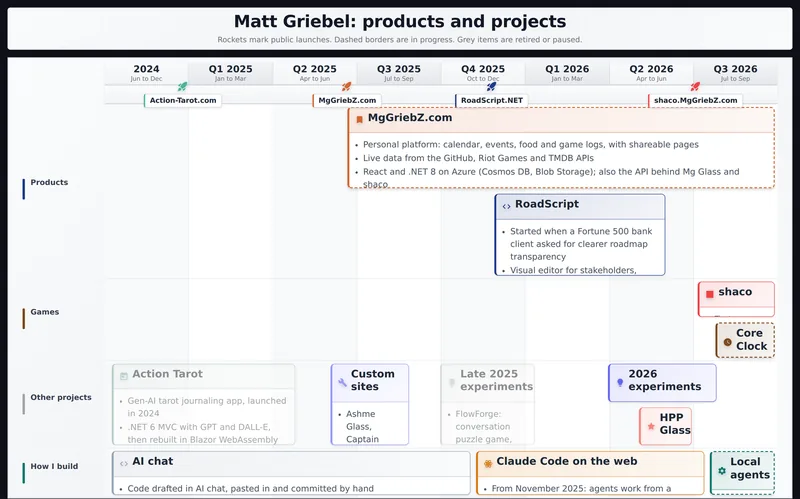
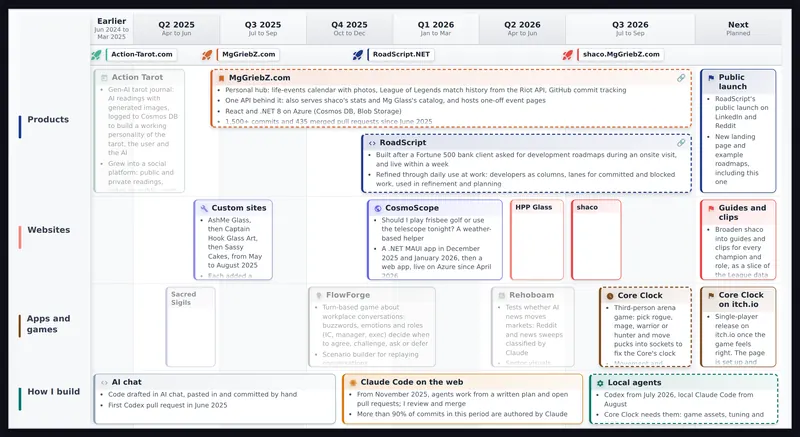
feat: landing page links to every example, with a new hero image
The Why I built this copy now matches the git history (live within a
week), and links to RoadScript's own build history.

Claude-Session: https://claude.ai/code/session_01L7PVBLGpHYW3oQpKGoECHo

diff --git a/wwwroot/index.html b/wwwroot/index.html
@@ -224,6 +224,10 @@
         .rs-shot { overflow-x: auto; overflow-y: hidden; border-radius: 12px; background: #0f0f17; box-shadow: 0 0 0 1px #2a2a3f; overscroll-behavior-x: contain; -webkit-overflow-scrolling: touch; }
         .rs-shot img { display: block; width: 900px; max-width: none; height: auto; }
         .rs-shot-hint { margin: 10px 0 0; font-size: 13px; color: #8d92ad; }
+        .rs-more { margin: 12px 0 0; display: flex; flex-wrap: wrap; align-items: center; gap: 4px 10px; font-size: 14px; color: #b4b8cf; }
+        .rs-more span { color: #4a4e68; }
+        .rs-more a, .rs-why-text a { color: #9aa1ff; }
+        .rs-more a:hover, .rs-why-text a:hover { color: #c3c7ff; }
 
         .rs-section { padding-top: 56px; display: flex; flex-direction: column; gap: 20px; }
         .rs-section-head { display: flex; flex-direction: column; gap: 8px; }
@@ -376,12 +380,17 @@
                         <img src="img/showcase-portfolio.webp"
                              srcset="img/showcase-portfolio-800.webp 800w, img/showcase-portfolio.webp 1600w"
                              sizes="(max-width: 899px) 900px, 1200px"
-                             width="1600" height="998"
+                             width="1600" height="874"
                              decoding="async"
-                             alt="The example roadmap: Matt Griebel's products and projects from 2024 to 2026, in swim lanes for products, games, other projects and how I build, with launch milestones." />
+                             alt="The example roadmap: Matt Griebel's products and projects from 2024 to 2026, in swim lanes for products, websites, apps and games, and how I build, with launch milestones." />
                     </a>
                 </div>
                 <p class="rs-shot-hint">Swipe sideways to see the whole timeline, or open it to read each item.</p>
+                <p class="rs-more">More examples:
+                    <a href="/showcase/roadscript" data-rs-app-link data-rs-message="Opening the example roadmap">RoadScript build history</a><span aria-hidden="true">·</span>
+                    <a href="/showcase/mggriebz" data-rs-app-link data-rs-message="Opening the example roadmap">MgGriebZ.com build history</a><span aria-hidden="true">·</span>
+                    <a href="/showcase/shaco" data-rs-app-link data-rs-message="Opening the example roadmap">shaco build history</a>
+                </p>
             </section>
 
             <section class="rs-wrap rs-section" id="how">
@@ -429,7 +438,8 @@
                 <div class="rs-why">
                     <div class="rs-why-text">
                         <h2 class="rs-h2">Why I built this</h2>
-                        <p>A Fortune 500 bank client needed clearer roadmap transparency. I built the first version of RoadScript over a weekend, then kept expanding it through daily use.</p>
+                        <p>A Fortune 500 bank client asked for roadmaps of our development work during an onsite visit. I had the first version of RoadScript live within a week, then kept refining it through daily use at work.</p>
+                        <p>The examples include RoadScript's own <a href="/showcase/roadscript" data-rs-app-link data-rs-message="Opening the example roadmap">build history</a>, taken from its git log.</p>
                         <p>I build with AI coding agents. I write the plan, the agents implement it, and I review and merge every change.</p>
                         <div class="rs-author">
                             <strong>Matt Griebel</strong>
@@ -441,7 +451,7 @@
                         </div>
                     </div>
                     <dl class="rs-facts">
-                        <div><dt>First version</dt><dd>Built over a weekend</dd></div>
+                        <div><dt>First version</dt><dd>Live within a week</dd></div>
                         <div><dt>Commits</dt><dd>330+ since November 2025</dd></div>
                         <div><dt>Merged pull requests</dt><dd>81</dd></div>
                         <div><dt>Stack</dt><dd>Blazor WebAssembly on Azure</dd></div>
